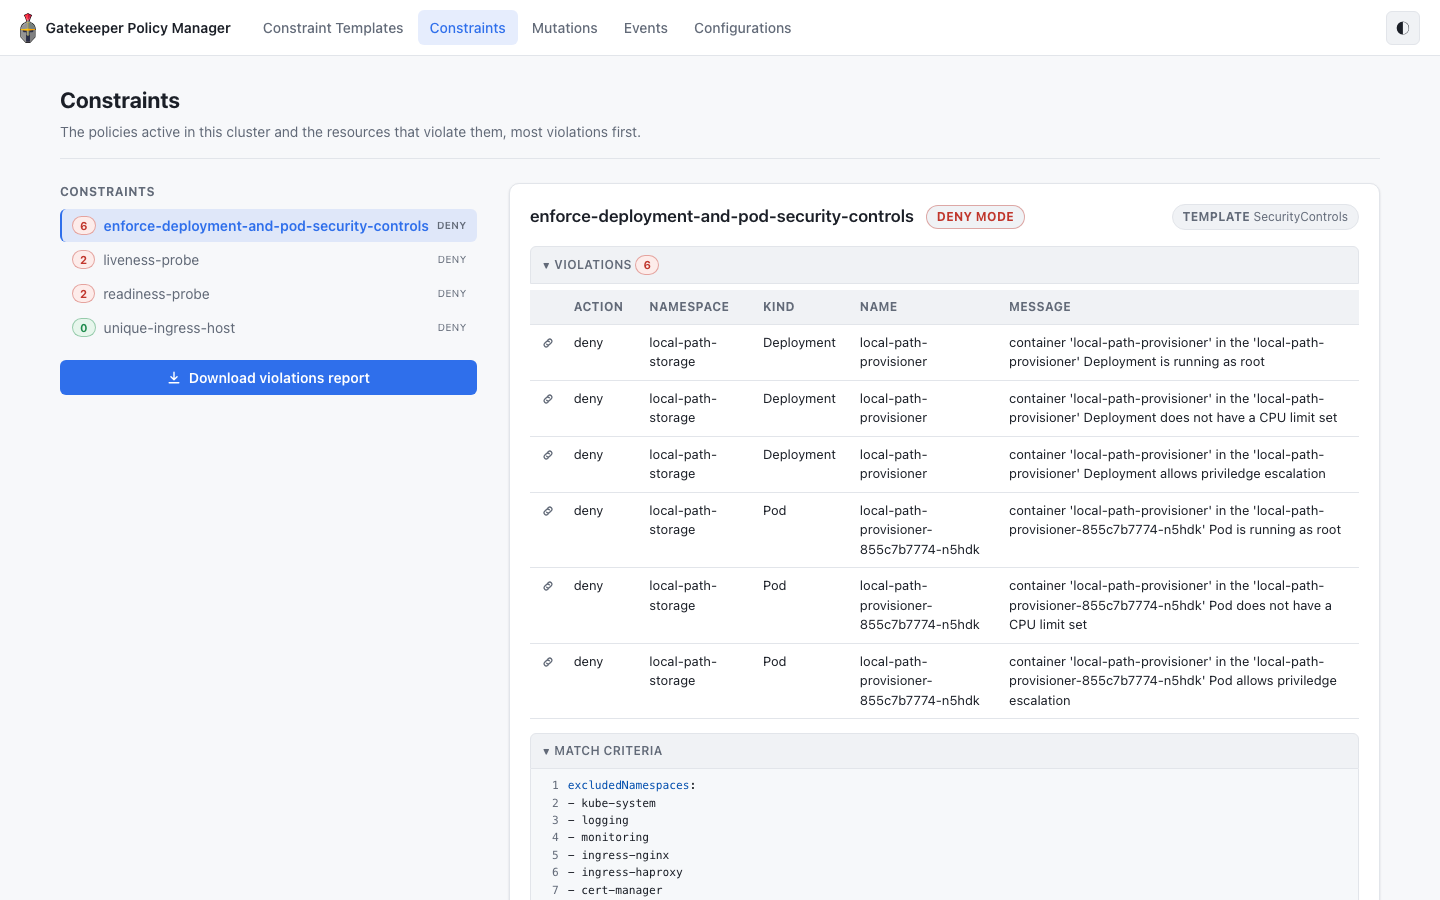
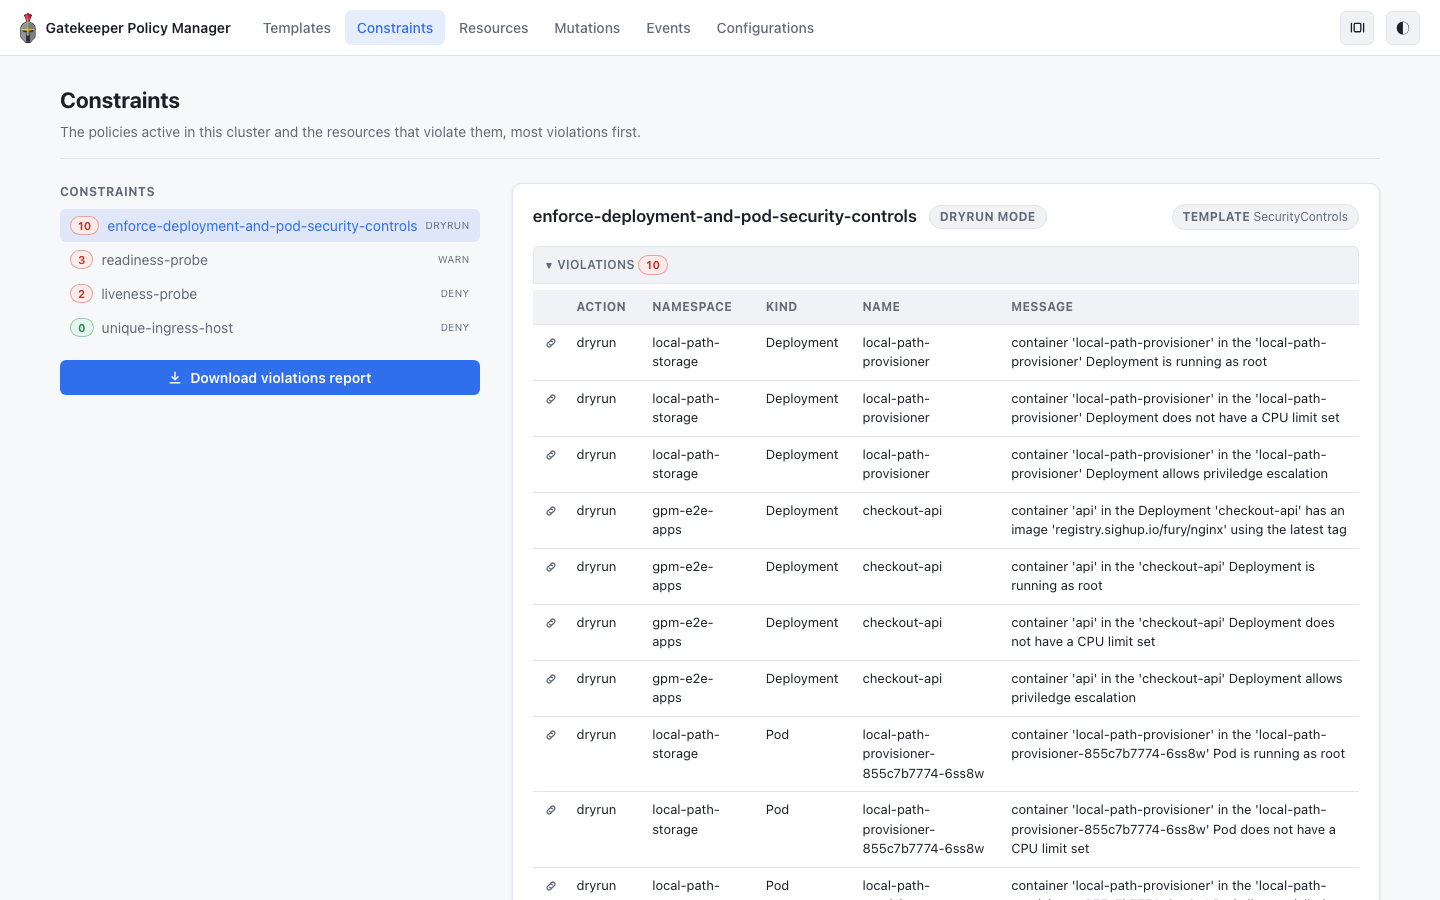
ui: remove accent border, update baselines and screenshots

diff --git a/static/ssr/app.css b/static/ssr/app.css
@@ -250,17 +250,17 @@ code { font-family: var(--mono); font-size: 0.9em; }
   padding: 6px 10px;
   border-radius: var(--radius-sm);
   color: var(--text-muted);
-  border-left: 2px solid transparent;
 }
 .sidebar-nav a:hover { color: var(--text); background: var(--surface-2); text-decoration: none; }
 /* Scroll-spy marks the entry whose section is in view (sidebar-spy.js). After :hover so an active
    item keeps its highlight while hovered. The name inherits the accent; the mode and badge keep
    their own colors. */
 /* No font-weight here on purpose: bolding the marked entry reflows the text and nudges the whole
-   list as you scroll, which reads as the layout jittering. The accent border, tint and color carry
-   the cue without changing metrics. */
+   list as you scroll, which reads as the layout jittering. The tint and the accent colour carry the
+   cue without changing metrics.
+   No left border either: a single-sided border under a border-radius is rounded into a lozenge at
+   the corner, which is exactly the shape people read as generated-by-AI styling. */
 .sidebar-nav a.active {
-  border-left-color: var(--accent);
   background: color-mix(in srgb, var(--accent) 12%, transparent);
   color: var(--accent);
 }
